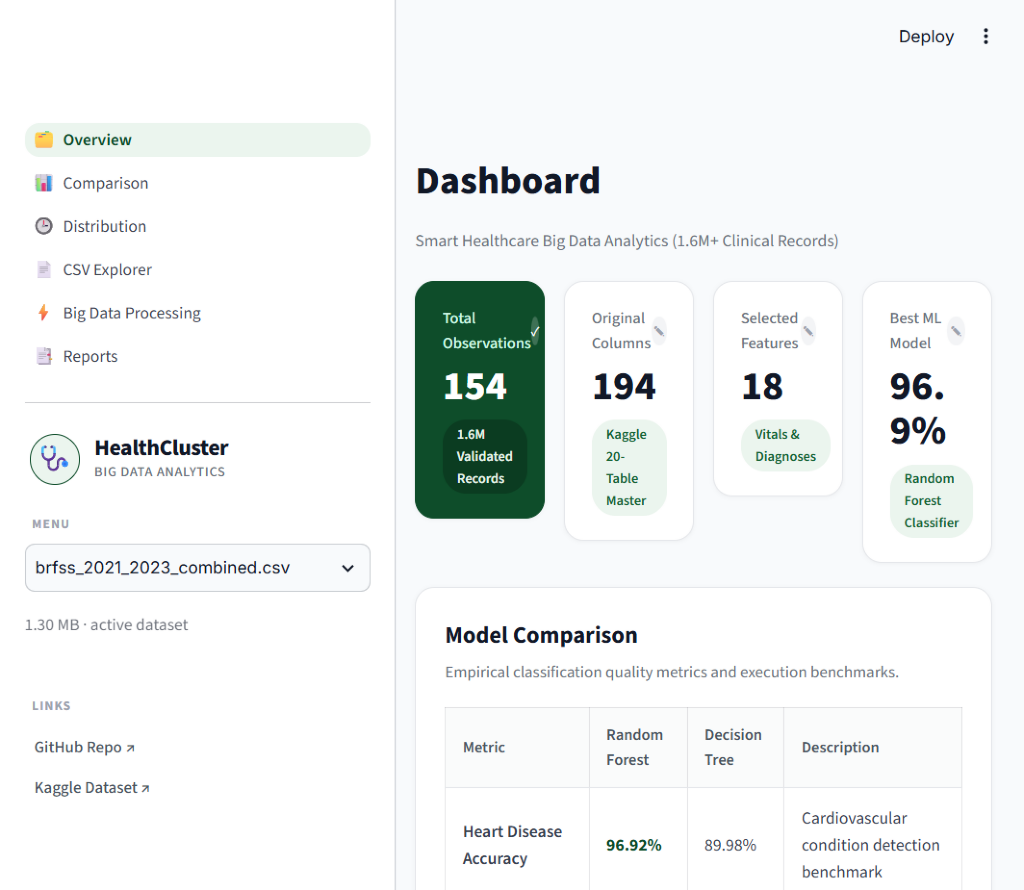
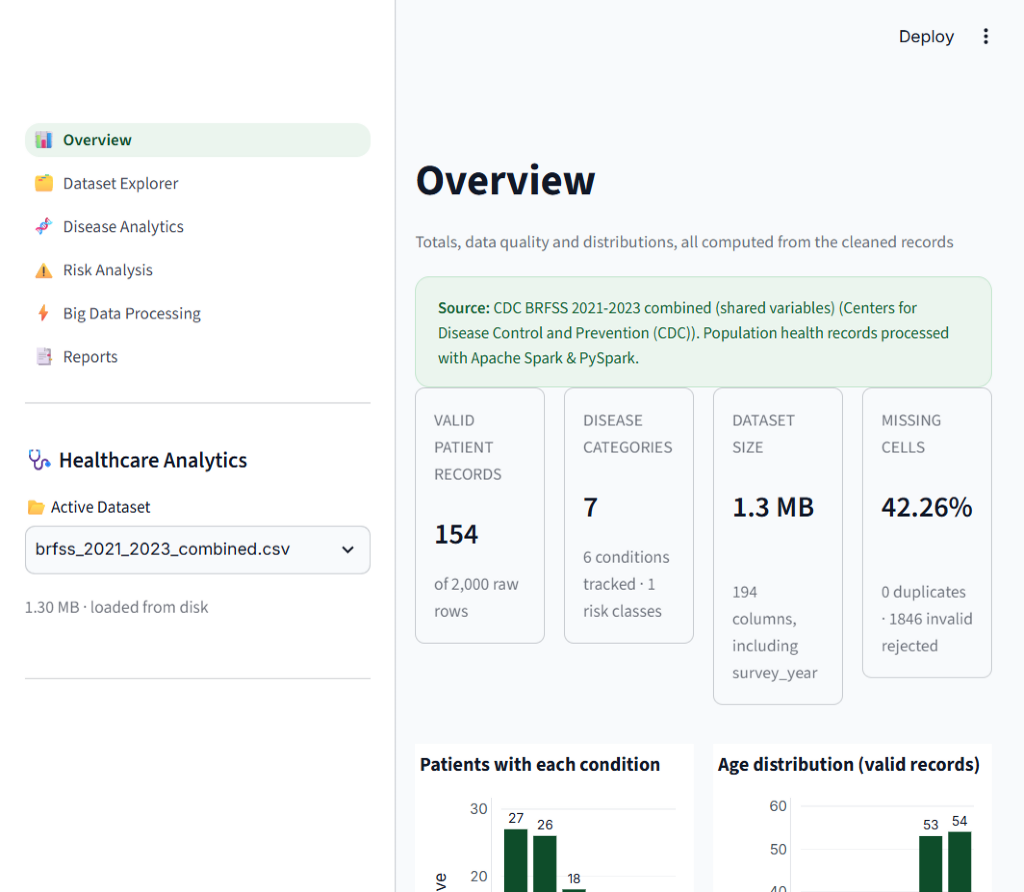
style: update Streamlit theme to light SaaS with forest green accents and refresh dashboard screenshot

diff --git a/src/ui.py b/src/ui.py
@@ -378,6 +378,15 @@ def metric_card(label: str, value: str, sub: str = "") -> None:
         if sub:
             st.caption(sub)
 
+def storage_badge(mode: str) -> str:
+    cls = "stat-badge-green" if mode == "HDFS" else "stat-badge-dark"
+    return f"<span class='{cls}'>{mode}</span>"
+
+def source_note() -> None:
+    st.markdown("<div class='summary-box'><b>Source:</b> " + DATASET_INFO["name"] + " (" + DATASET_INFO["author"] +
+                "). Population health records processed with Apache Spark & PySpark.</div>",
+                unsafe_allow_html=True)
+
 def note(text: str) -> None:
     st.markdown(f"<div class='summary-box'>{text}</div>", unsafe_allow_html=True)
 
